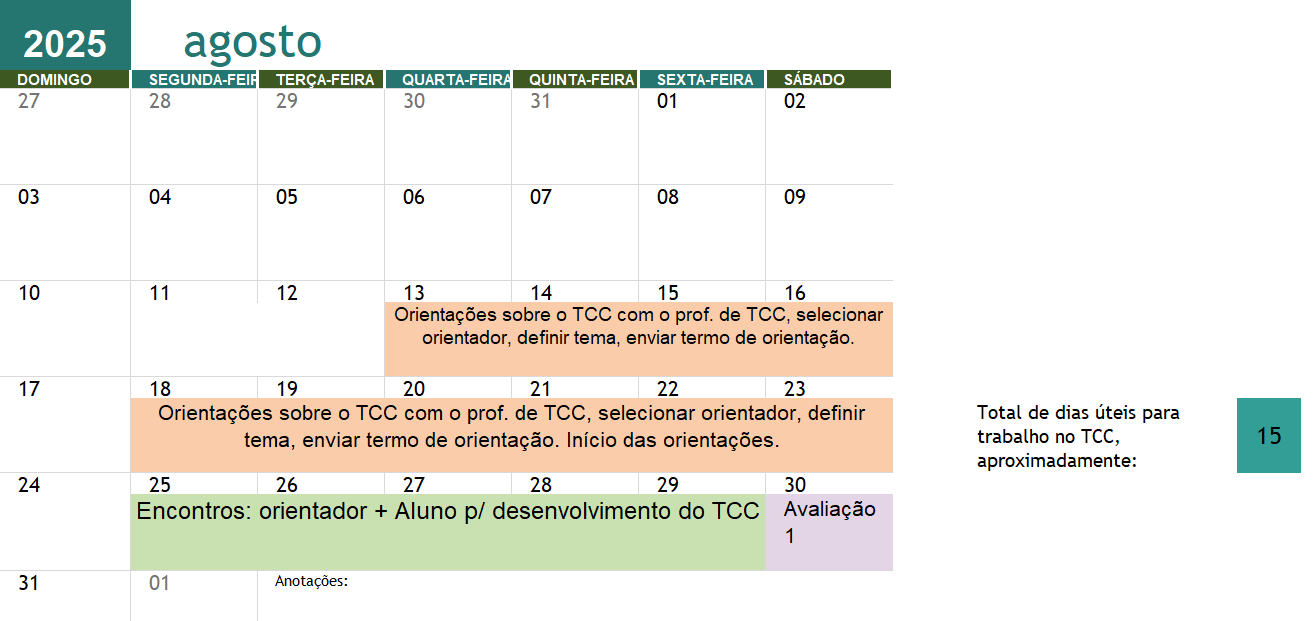
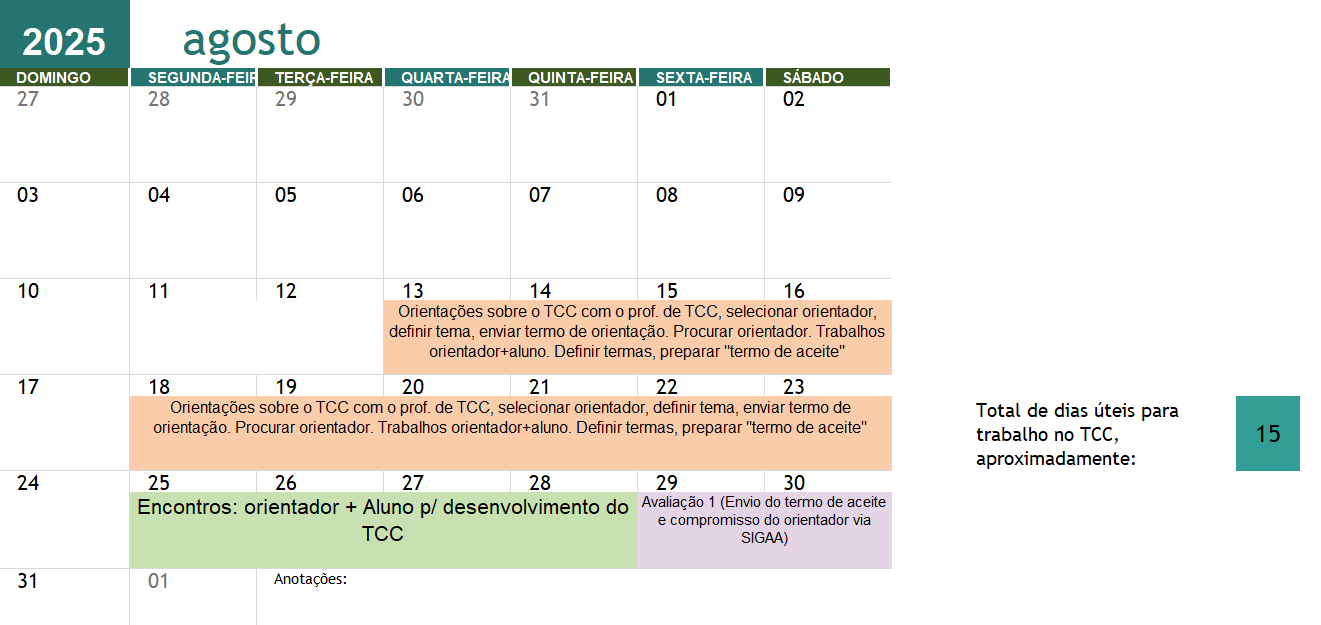
atualizações calendários

diff --git a/tcc1/plano_de_ensino.md b/tcc1/plano_de_ensino.md
@@ -49,8 +49,8 @@ No dias de aula da disciplina. 30 minutos antes da aula (via agendamento prévio
 
 |Aula | Data   | Carga horária| Conteúdo |
 |-----|--------|--------------|----------|
-|  1  | 13/08  | 1hs  | Introdução a disciplina, detalhamento do trabalho, orientações gerais, acompanhamento do desenvolvimento do trabalho aluno-orientador.  |
-|  2  | 20/08  | 1hs  | Introdução a disciplina, detalhamento do trabalho, orientações gerais, acompanhamento do desenvolvimento do trabalho aluno-orientador. |
+|  1  | 13/08  | 1hs  | Orientações sobre o TCC com o prof. de TCC, selecionar orientador, definir tema, enviar termo de orientação. Procurar orientador. Trabalhos orientador+aluno. Definir termas, preparar "termo de aceite".  |
+|  2  | 20/08  | 1hs  | Orientações sobre o TCC com o prof. de TCC, selecionar orientador, definir tema, enviar termo de orientação. Procurar orientador. Trabalhos orientador+aluno. Definir termas, preparar "termo de aceite". |
 |  3  | 23/08  | 2hs  | Acompanhamento do trabalho aluno-orientador.  |
 |  4  | 30/08  | 2hs  | **Avaliação 1. Entrega de termos de orientação.** |
 |  5  | 06/09  | 2hs  | Acompanhamento do trabalho aluno-orientador. |
@@ -61,8 +61,8 @@ No dias de aula da disciplina. 30 minutos antes da aula (via agendamento prévio
 |  10 | 11/10  | 2hs  | Acompanhamento do trabalho aluno-orientador. |
 |  11 | 18/10  | 2hs  | Acompanhamento do trabalho aluno-orientador. |
 |  12 | 25/10  | 2hs  | Acompanhamento do trabalho aluno-orientador. |
-|  13 | 01/11  | 2hs  | **Avaliação 2. Entrega de trabalho para banca.**  |
-|  14 | 08/11  | 2hs  | Acompanhamento do trabalho aluno-orientador. |
+|  13 | 01/11  | 2hs  | Acompanhamento do trabalho aluno-orientador. |
+|  14 | 08/11  | 2hs  |  **Avaliação 2. Entrega de trabalho para banca.**  |
 |  15 | 22/11  | 2hs  | Acompanhamento do trabalho aluno-orientador. |
 |  16 | 29/11  | 2hs  | **Avaliação 3, entrega de versão final do trabalho.** |
 

diff --git a/tcc2/plano_de_ensino.md b/tcc2/plano_de_ensino.md
@@ -42,8 +42,8 @@ No dias de aula da disciplina. 30 minutos antes da aula (via agendamento prévio
 
 |Aula | Data   | Carga horária| Conteúdo |
 |-----|--------|--------------|----------|
-|  1  | 14/08  | 1hs  | Introdução a disciplina, detalhamento do trabalho. |
-|  2  | 21/08  | 1hs  | Acompanhamento do trabalho aluno-orientador.  |
+|  1  | 14/08  | 1hs  | Orientações sobre o TCC com o prof. de TCC, selecionar orientador, definir tema, enviar termo de orientação. Procurar orientador. Trabalhos orientador+aluno. Definir termas, preparar "termo de aceite". |
+|  2  | 21/08  | 1hs  | Orientações sobre o TCC com o prof. de TCC, selecionar orientador, definir tema, enviar termo de orientação. Procurar orientador. Trabalhos orientador+aluno. Definir termas, preparar "termo de aceite".  |
 |  3  | 23/08  | 2hs  | Acompanhamento do trabalho aluno-orientador. |
 |  4  | 30/08  | 2hs  | **Avaliação 1. Entrega de termos de orientação.** |
 |  5  | 06/09  | 2hs  | Acompanhamento do trabalho aluno-orientador. |
@@ -54,8 +54,8 @@ No dias de aula da disciplina. 30 minutos antes da aula (via agendamento prévio
 |  10 | 11/09  | 2hs  | Acompanhamento do trabalho aluno-orientador. |
 |  11 | 18/10  | 2hs  | Acompanhamento do trabalho aluno-orientador. |
 |  12 | 25/10  | 2hs  | Acompanhamento do trabalho aluno-orientador. |
-|  13 | 01/11  | 2hs  | **Avaliação 2. Entrega de trabalho para banca.** |
-|  14 | 08/11  | 2hs  | Acompanhamento do trabalho aluno-orientador. |
+|  13 | 01/11  | 2hs  | Acompanhamento do trabalho aluno-orientador. |
+|  14 | 08/11  | 2hs  | **Avaliação 2. Entrega de trabalho para banca.** |
 |  15 | 22/11  | 2hs  | Acompanhamento do trabalho aluno-orientador. |
 |  16 | 29/11  | 2hs  | **Avaliação 3. Entrega de versão final do trabalho.** |
 
